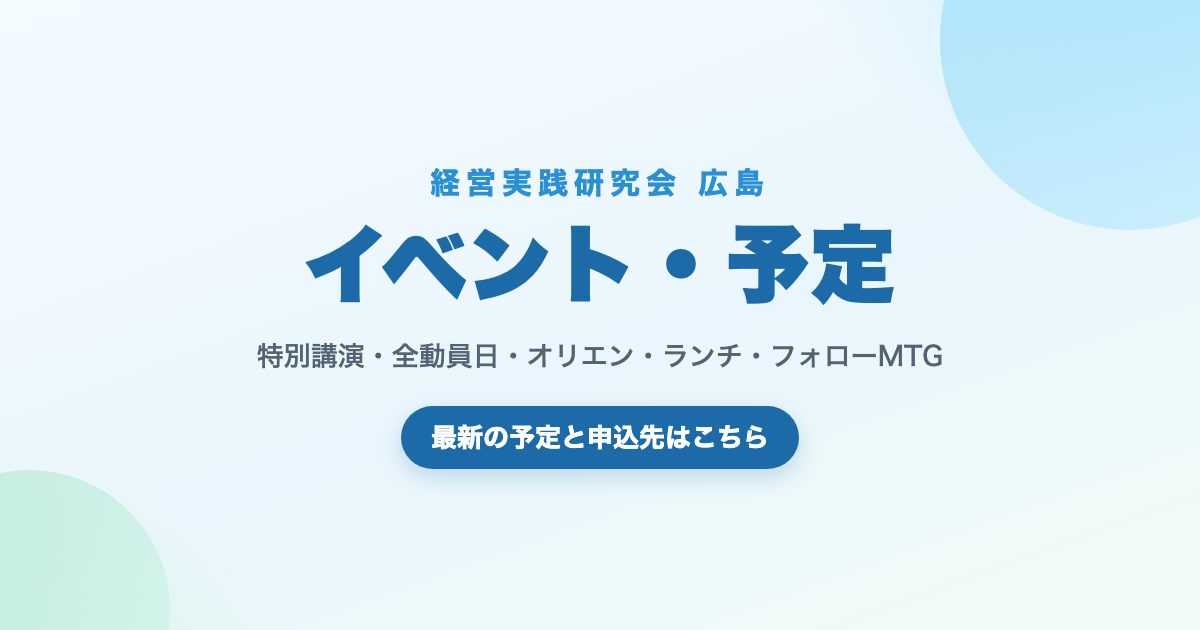
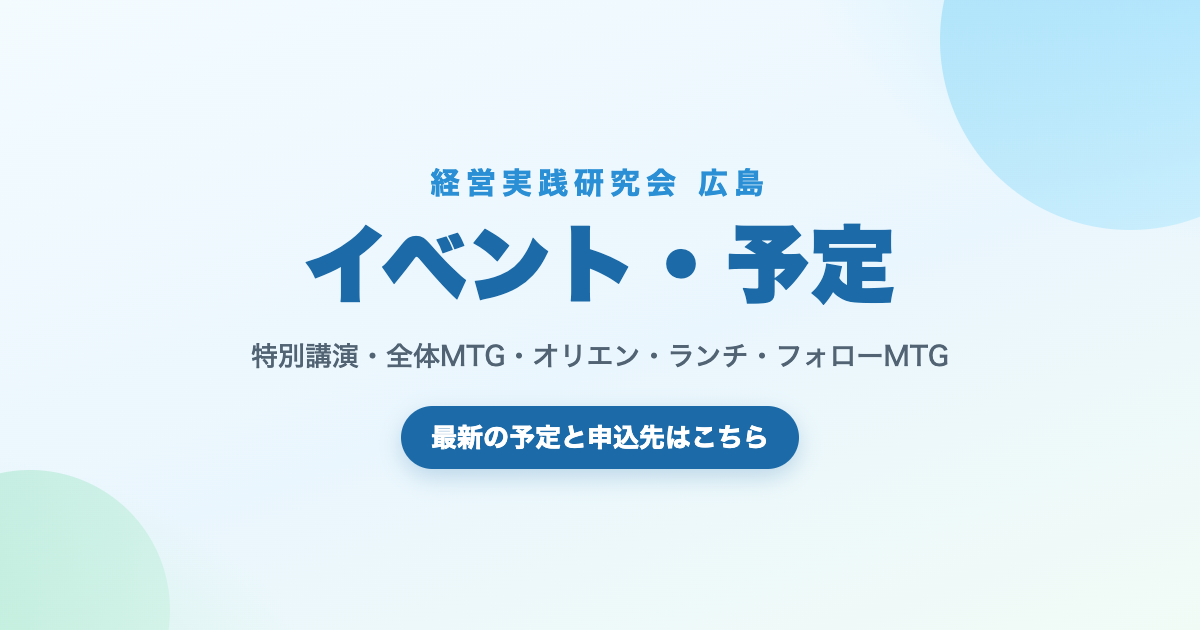
feat: 広島では「全動員日」を「全体MTG」に（種別・カード・依頼の画面・リンクカード）（v1.13.0）

Changed region(s): [[0.185, 0.5429, 0.8017, 0.6032]]

diff --git a/index.html b/index.html
@@ -9,7 +9,7 @@
 <meta property="og:type" content="website">
 <meta property="og:site_name" content="経実会広島">
 <meta property="og:title" content="経実会広島 イベント一覧">
-<meta property="og:description" content="広島の特別講演・全動員日・オリエン・ランチ・フォローMTGの予定と申込先。ログインなしで見られます。">
+<meta property="og:description" content="広島の特別講演・全体MTG・オリエン・ランチ・フォローMTGの予定と申込先。ログインなしで見られます。">
 <meta property="og:image" content="https://belageapp.github.io/keijitsu/assets/og.png">
 <meta property="og:image:width" content="1200">
 <meta property="og:image:height" content="630">
@@ -161,8 +161,8 @@
   import { collection, getDocs, addDoc, updateDoc, doc, serverTimestamp, query, orderBy }
     from 'https://www.gstatic.com/firebasejs/10.12.0/firebase-firestore.js';
   import { db } from './firebase-config.js';
-  import { optionalAuth, renderTopbar, canEdit } from './auth.js?v=1.12.1';
-  import { EVENT_TYPES, eventTypeBadge, MOBILIZATION_TYPES, eventTypeOptionsInner, EVENT_CATEGORIES, eventCategory, eventCategoryBadge, eventCategoryOptionsInner, HQ_EVENTS_URL, applySiteName, FEATURES } from './constants.js?v=1.12.1';
+  import { optionalAuth, renderTopbar, canEdit } from './auth.js?v=1.13.0';
+  import { EVENT_TYPES, eventTypeBadge, MOBILIZATION_TYPES, eventTypeOptionsInner, EVENT_CATEGORIES, eventCategory, eventCategoryBadge, eventCategoryOptionsInner, HQ_EVENTS_URL, applySiteName, FEATURES } from './constants.js?v=1.13.0';
 
   let me = null;
   let allEvents = [];
@@ -378,7 +378,7 @@
     }).join('') + restHtml + `</div>`;
   }
 
-  // 全動員日in広島（月1回、会員が全員集まる日。本部の意向で当面この呼び名、USER 2026-11-11）：次回を大きく、以降の日付を並べる
+  // 全体MTGin広島（月1回、会員が全員集まる日。本部の呼び名は全動員日、広島では全体MTG、USER 2026-11-27）：次回を大きく、以降の日付を並べる
   //   会場はホリスケアアカデミー3F（USER 2026-11-25）。会費・申込方法は未定（USER 2026-11-10）
   function renderAssembly() {
     const box = document.getElementById('ga-box');
@@ -388,14 +388,14 @@
     const hm = d => `${d.getHours()}:${String(d.getMinutes()).padStart(2,'0')}`;
     const list = allEvents
       .map(ev => ({ ...ev, _d: fmtDate(ev.startAt), _e: ev.endAt ? fmtDate(ev.endAt) : null }))
-      .filter(ev => ev.eventType === '全動員日in広島' && ev._d && ev._d >= now)
+      .filter(ev => ev.eventType === '全体MTGin広島' && ev._d && ev._d >= now)
       .sort((a,b) => a._d - b._d);
     if (!list.length) { box.innerHTML = ''; return; }
     const [next, ...rest] = list;
     const nd = new Date(next._d.getFullYear(), next._d.getMonth(), next._d.getDate());
     const left = Math.round((nd - today) / 86400000);
     box.innerHTML = `<div class="ga-box">
-      <div class="hd">全動員日</div>
+      <div class="hd">全体MTG</div>
       <div class="lead">毎月1回、広島の会員みんなで集まる日です。</div>
       <div class="ga-next" onclick="location.href='event.html?id=${next.id}'">
         <div class="t">次回 ${md(next._d)} ${hm(next._d)}${next._e ? '〜' + hm(next._e) : '〜'} <span class="hl">${left === 0 ? '本日' : 'あと' + left + '日'}</span></div>

diff --git a/event.html b/event.html
@@ -8,7 +8,7 @@
 <meta property="og:type" content="website">
 <meta property="og:site_name" content="経実会広島">
 <meta property="og:title" content="経実会広島 イベント一覧">
-<meta property="og:description" content="広島の特別講演・全動員日・オリエン・ランチ・フォローMTGの予定と申込先。ログインなしで見られます。">
+<meta property="og:description" content="広島の特別講演・全体MTG・オリエン・ランチ・フォローMTGの予定と申込先。ログインなしで見られます。">
 <meta property="og:image" content="https://belageapp.github.io/keijitsu/assets/og.png">
 <meta property="og:image:width" content="1200">
 <meta property="og:image:height" content="630">
@@ -165,8 +165,8 @@
   import { ref, uploadBytes, getDownloadURL, deleteObject }
     from 'https://www.gstatic.com/firebasejs/10.12.0/firebase-storage.js';
   import { db, storage } from './firebase-config.js';
-  import { optionalAuth, renderTopbar, canEdit } from './auth.js?v=1.12.1';
-  import { EVENT_TYPES, eventTypeBadge, INDUSTRIES, industryBadge, OTHER_CATEGORIES, MOBILIZATION_TYPES, eventTypeOptionsInner, eventCategoryBadge, eventCategoryOptionsInner, applySiteName, FEATURES } from './constants.js?v=1.12.1';
+  import { optionalAuth, renderTopbar, canEdit } from './auth.js?v=1.13.0';
+  import { EVENT_TYPES, eventTypeBadge, INDUSTRIES, industryBadge, OTHER_CATEGORIES, MOBILIZATION_TYPES, eventTypeOptionsInner, eventCategoryBadge, eventCategoryOptionsInner, applySiteName, FEATURES } from './constants.js?v=1.13.0';
 
   // 種別セレクトを構築
   document.getElementById('ee-type').innerHTML =

diff --git a/dashboard.html b/dashboard.html
@@ -192,15 +192,15 @@
   import { collection, getDocs, getDoc, setDoc, addDoc, updateDoc, deleteDoc, doc, serverTimestamp, query, orderBy }
     from 'https://www.gstatic.com/firebasejs/10.12.0/firebase-firestore.js';
   import { db } from './firebase-config.js';
-  import { optionalAuth, renderTopbar, canEdit } from './auth.js?v=1.12.1';
-  import { eventTypeBadge, eventCategoryBadge, EVENT_CATEGORIES, needsKportal, isOnKportal, NEW_MEMBER_STEPS, NEW_MEMBER_DAYS, DASHBOARD_OPEN } from './constants.js?v=1.12.1';
+  import { optionalAuth, renderTopbar, canEdit } from './auth.js?v=1.13.0';
+  import { eventTypeBadge, eventCategoryBadge, EVENT_CATEGORIES, needsKportal, isOnKportal, NEW_MEMBER_STEPS, NEW_MEMBER_DAYS, DASHBOARD_OPEN } from './constants.js?v=1.13.0';
 
   const WD = ['日','月','火','水','木','金','土'];
   const DAY = 86400000;
   const STALL_DAYS = 30;          // 最後の動きからこの日数を過ぎたら「止まっている」
   const KP_ALERT_DAYS = 45;       // 開催まで何日を切ったら「K-PORTAL 未掲載」を要注意に出すか
   const APPLY_ALERT_DAYS = 30;    // 開催まで何日を切ったら「目標まであと◯名」を要注意に出すか
-  const CHAIR_TYPES = ['特別講演in広島', '全動員日in広島', '定例会in広島', '近未来in広島', '交流会in広島'];   // 委員長を置く種別（仮）
+  const CHAIR_TYPES = ['特別講演in広島', '全体MTGin広島', '定例会in広島', '近未来in広島', '交流会in広島'];   // 委員長を置く種別（仮）
 
   let me = null, editor = false;
   let events = [], staff = {}, members = [], tasks = [], pub = null;

diff --git a/request.html b/request.html
@@ -77,8 +77,8 @@
   import { collection, getDocs, addDoc, updateDoc, doc, serverTimestamp, query, orderBy }
     from 'https://www.gstatic.com/firebasejs/10.12.0/firebase-firestore.js';
   import { db } from './firebase-config.js';
-  import { requireAuth, renderTopbar, canEdit } from './auth.js?v=1.12.1';
-  import { REQUEST_KINDS, requestKindOf, eventTypeOptionsInner, needsKportal, isOnKportal, OKUMURA_MESSENGER_URL, MESSENGER_TOP_URL } from './constants.js?v=1.12.1';
+  import { requireAuth, renderTopbar, canEdit } from './auth.js?v=1.13.0';
+  import { REQUEST_KINDS, requestKindOf, eventTypeOptionsInner, needsKportal, isOnKportal, OKUMURA_MESSENGER_URL, MESSENGER_TOP_URL } from './constants.js?v=1.13.0';
 
   const WD = ['日','月','火','水','木','金','土'];
   const esc = s => String(s ?? '').replace(/&/g,'&amp;').replace(/</g,'&lt;').replace(/>/g,'&gt;');

diff --git a/profile.html b/profile.html
@@ -141,8 +141,8 @@
   import { doc, getDoc, updateDoc, collection, getDocs } from 'https://www.gstatic.com/firebasejs/10.12.0/firebase-firestore.js';
   import { ref, uploadBytes, getDownloadURL } from 'https://www.gstatic.com/firebasejs/10.12.0/firebase-storage.js';
   import { db, storage } from './firebase-config.js';
-  import { requireAuth, renderTopbar, canEdit, canEditProfile } from './auth.js?v=1.12.1';
-  import { INDUSTRIES, industryBadge } from './constants.js?v=1.12.1';
+  import { requireAuth, renderTopbar, canEdit, canEditProfile } from './auth.js?v=1.13.0';
+  import { INDUSTRIES, industryBadge } from './constants.js?v=1.13.0';
 
   const targetUid = new URLSearchParams(location.search).get('uid');
   let me = null, user = null, members = [], memberMap = {};

diff --git a/admin.html b/admin.html
@@ -88,7 +88,7 @@
   import { initializeApp, deleteApp } from 'https://www.gstatic.com/firebasejs/10.12.0/firebase-app.js';
   import { getAuth } from 'https://www.gstatic.com/firebasejs/10.12.0/firebase-auth.js';
   import { db, firebaseConfig } from './firebase-config.js';
-  import { requireAuth, renderTopbar, isAdmin, ROLE_LABELS } from './auth.js?v=1.12.1';
+  import { requireAuth, renderTopbar, isAdmin, ROLE_LABELS } from './auth.js?v=1.13.0';
 
   let me = null, users = [];
   function esc(s){return String(s||'').replace(/&/g,'&amp;').replace(/</g,'&lt;').replace(/>/g,'&gt;');}

diff --git a/members.html b/members.html
@@ -35,8 +35,8 @@
 <script type="module">
   import { collection, getDocs } from 'https://www.gstatic.com/firebasejs/10.12.0/firebase-firestore.js';
   import { db } from './firebase-config.js';
-  import { requireAuth, renderTopbar } from './auth.js?v=1.12.1';
-  import { industryBadge } from './constants.js?v=1.12.1';
+  import { requireAuth, renderTopbar } from './auth.js?v=1.13.0';
+  import { industryBadge } from './constants.js?v=1.13.0';
 
   let me = null, members = [];
   let kw = '', industryFilter = '';

diff --git a/auth.js b/auth.js
@@ -5,7 +5,7 @@
 import { onAuthStateChanged, signOut } from 'https://www.gstatic.com/firebasejs/10.12.0/firebase-auth.js';
 import { doc, getDoc } from 'https://www.gstatic.com/firebasejs/10.12.0/firebase-firestore.js';
 import { auth, db } from './firebase-config.js';
-import { FEATURES } from './constants.js?v=1.12.1';
+import { FEATURES } from './constants.js?v=1.13.0';
 
 export const ROLE_LABELS = {
   admin:  '管理者',

diff --git a/register.html b/register.html
@@ -113,7 +113,7 @@
   }
 </script>
 <script type="module">
-  import { FEATURES } from './constants.js?v=1.12.1';
+  import { FEATURES } from './constants.js?v=1.13.0';
   if (!FEATURES.register) {
     document.getElementById('box').innerHTML = `
       <div class="brand">経営実践研究会 広島<span class="en">HIROSHIMA MEMBERS</span></div>

diff --git a/guide.html b/guide.html
@@ -95,7 +95,7 @@
   </div>
 </div>
 <script type="module">
-  import { FEATURES } from './constants.js?v=1.12.1';
+  import { FEATURES } from './constants.js?v=1.13.0';
   document.querySelectorAll('[data-feature]').forEach(el => { if (!FEATURES[el.dataset.feature]) el.remove(); });
 </script>
 </body>

diff --git a/CHANGELOG.md b/CHANGELOG.md
@@ -5,6 +5,16 @@ Firebase（Auth / Firestore / Storage）＋ 静的HTML/JS、GitHub Pages（belag
 
 ---
 
+## v1.13.0 (2026-11-27) — 「全動員日」を広島では「全体MTG」に
+
+- 広島では「全体MTG」と呼ぶことになった（USER 2026-11-27。本部の呼び名は全動員日）。種別 `全動員日in広島` → `全体MTGin広島`、トップのカードの見出し「全体MTG」、依頼の画面の種類「全体MTG」（タイトル「全体MTG → 懇親会」）、ダッシュボードの委員長を置く種別。
+- 本番データの7件（キックオフ・第1〜6回）の種別・タイトル・内容文（「全動員日」「全動員会」→「全体MTG」）。
+- リンクカード（OGP）の説明と画像 `assets/og.png` のサブを「特別講演・全体MTG・オリエン・ランチ・フォローMTG」に（元データ：KLS `40_PROJECTS/経営実践研究会_広島/アプリ/リンクカード画像_og_元データ_2026-11-27.html`）。Facebook はシェアデバッガーで読み直させる。
+- Mac の同期スクリプト：受付名簿・予定シート・K-PORTAL では「全体」「全動員」のどちらの名前でも見つける（奥村さんへの依頼は「全動員日」で出したため）。
+- 各ページの読み込み版を `?v=1.13.0` に。
+
+---
+
 ## v1.12.0 (2026-11-26) — K-PORTAL 掲載依頼の画面（まとめて登録して奥村さんへ1通で依頼）
 
 - 代表が進捗係として日程を決め、アプリから K-PORTAL の掲載を奥村大祐さんに依頼する（USER 2026-11-26）。依頼した日・シートに載った日を手で入れる手間をなくす。
